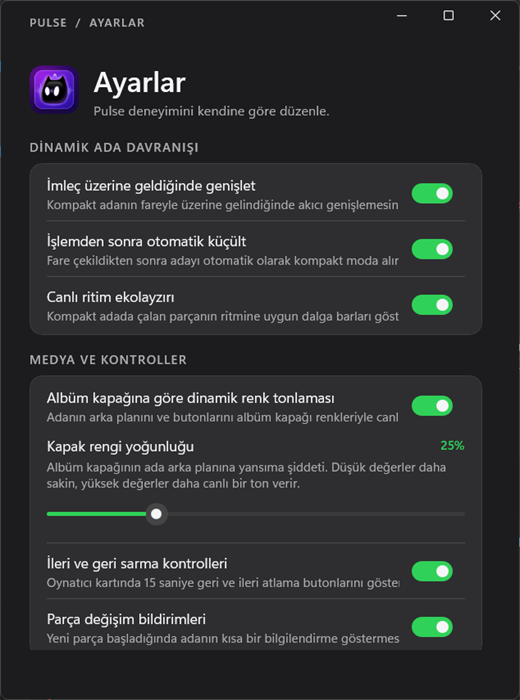
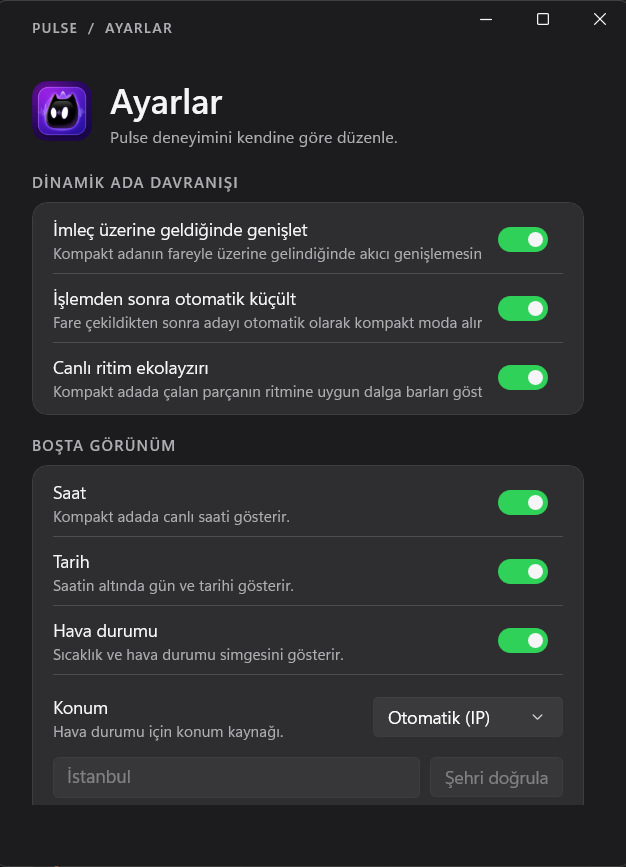
docs(readme): refresh screenshots for monochrome panels and battery states

diff --git a/README.md b/README.md
@@ -9,7 +9,7 @@
 [![Windows App SDK](https://img.shields.io/badge/WindowsAppSDK-2.5.1-0078D4?style=for-the-badge)](https://github.com/microsoft/windowsappsdk)
 [![License](https://img.shields.io/badge/License-MIT-green?style=for-the-badge)](LICENSE)
 
-*Pulse brings a sleek, interactive, micro-animated Dynamic Island experience to your Windows desktop, with native system media control, live album art, a Pomodoro focus timer, system monitoring controls, fluid dark/light theme adaptability, and a smart idle strip for the time, date and local weather.*
+*Pulse brings a sleek, interactive, micro-animated Dynamic Island experience to your Windows desktop, with native system media control, live album art, a monochrome Pomodoro focus timer, a matching system control panel, fluid dark/light theme adaptability, and a smart idle strip for the time, date and local weather.*
 
 ---
 
@@ -23,15 +23,15 @@
 
 <img src="docs/images/island-expanded-focus.png" width="585" alt="Pulse focus timer" />
 
-<em>Focus timer panel: Pomodoro presets (25/50 min work, 5/15 min break), tabular countdown digits and a spring-animated progress hairline.</em>
+<em>Focus timer panel: monochrome Pomodoro presets (25/50 min work, 5/15 min break), tabular countdown digits and a spring-animated progress hairline.</em>
 
 <img src="docs/images/island-expanded-system.png" width="585" alt="Pulse system panel" />
 
-<em>System panel: monochrome volume control with mute state, live battery status and one-click screenshot capture.</em>
+<em>System panel: monochrome volume control with mute state, semantic battery colors (green while charging, red when low) with a subtle charging pulse, and one-click screenshot capture.</em>
 
-<img src="docs/images/settings-dark.png" width="420" alt="Pulse settings window" />
+<img src="docs/images/settings-dark.png" width="420" alt="Pulse settings window with idle strip controls" />
 
-<em>Settings: dark, light and system themes with live transitions, motion profiles plus a 70-140% speed slider, artwork tint strength, glass transparency and layout controls.</em>
+<em>Settings: dark, light and system themes with live transitions, motion profiles plus a 70-140% speed slider, artwork tint strength, glass transparency, layout controls, and smart idle clock/date/weather toggles with manual city verification.</em>
 
 ---
 
@@ -46,8 +46,8 @@
 - **Album Art & Adaptive Theming**: Dynamic artwork extraction, caching, accent-color sampling and adjustable tint strength (0-100%) across dark, light and system themes.
 - **Interactive Timeline & Seeking**: Real-time progress with drag-to-seek support and ±15s skip controls, laid out like Apple's expanded Live Activity.
 - **Liquid-Glass Frost Effect**: Toggleable glass mode with a 0-100% transparency slider that samples and blurs the live desktop behind the island, then layers the current album-art tint on top for a true frosted-glass look.
-- **Focus Timer (Pomodoro)**: Preset work/break chips (25/50, 5/15 minutes), live countdown, session auto-switching that keeps the island pinned while a session runs.
-- **System Controls Panel**: Master volume with integer stepping and visual mute state, live battery telemetry (charging/level states), and instant screenshot capture that saves locally and copies to the clipboard.
+- **Focus Timer (Pomodoro)**: Monochrome preset work/break chips (25/50, 5/15 minutes), live countdown, session auto-switching that keeps the island pinned while a session runs.
+- **System Controls Panel**: Master volume with integer stepping and a neutral mute state, live battery telemetry with green charging and red low-battery accents plus a subtle charging pulse, and instant screenshot capture that saves locally and copies to the clipboard.
 - **Avatar Pulse (Track Change)**: Smooth scale-in/out micro animations on track changes, plus layout snap animations.
 - **Tap to Open (Deep Link)**: Tap the album artwork in the island to jump straight to the app that owns the playback (Spotify, browser, any GSMTC source). Notification and download capsules open their related file or folder.
 - **Real Event Awareness**: Live AC/charging detection (plug the charger and the island reacts even at 100%), external volume-change HUD (hardware keys), and a Downloads watcher that surfaces completed downloads.
@@ -84,10 +84,10 @@
 The island exposes three pages while expanded. Switch pages by scrolling the mouse wheel over the expanded panel.
 
 1. **Media** - playback, timeline and transport controls.
-2. **Focus Timer** - Pomodoro focus timer with preset chips.
-3. **System & Control** - master volume, battery status, screenshot capture.
+2. **Focus Timer** - monochrome Pomodoro focus timer with preset chips.
+3. **System & Control** - monochrome master volume, battery status with semantic charging/low colors, screenshot capture.
 
-When nothing is playing, the compact pill switches to the smart idle strip: clock and date on the left, local weather on the right. The wordmark remains as a fallback when all idle information is disabled or unavailable.
+The Focus and System pages share a restrained monochrome control palette; battery green/red is the only semantic color exception. When nothing is playing, the compact pill switches to the smart idle strip: clock and date on the left, local weather on the right. The wordmark remains as a fallback when all idle information is disabled or unavailable.
 
 Clicking the collapsed pill expands the island; clicking outside (or the collapse arrow) returns it to the compact state. The island can be hidden from the tray or the right-click menu and restored later.
 
@@ -145,8 +145,8 @@ Stop-Process -Name Pulse -Force -ErrorAction SilentlyContinue
 - **Hover**: quick state (media wave animation, track details).
 - **Right Click / System Tray**: settings panel, focus timer shortcuts, notification simulator, taskbar flyout, hide island.
 - **Idle Settings**: toggle the idle clock, date and weather; use automatic IP location or verify a manual city. Weather refreshes every 15 minutes.
-- **Dynamic Tinting**: album art driven accent changes blended into pill backgrounds and controls.
-- **Slider (System Page)**: stepwise master volume; mute button shows a red active state.
+- **Dynamic Tinting**: album art driven accent changes blended into the glass background and media accents; Focus and System controls stay monochrome.
+- **Slider (System Page)**: stepwise master volume; the mute glyph reflects the active state without a color accent.
 
 ---
 
